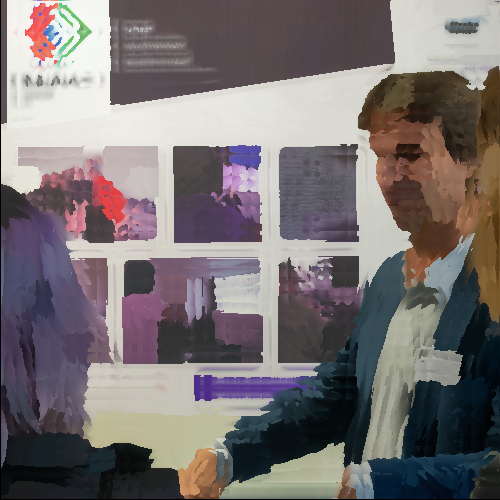
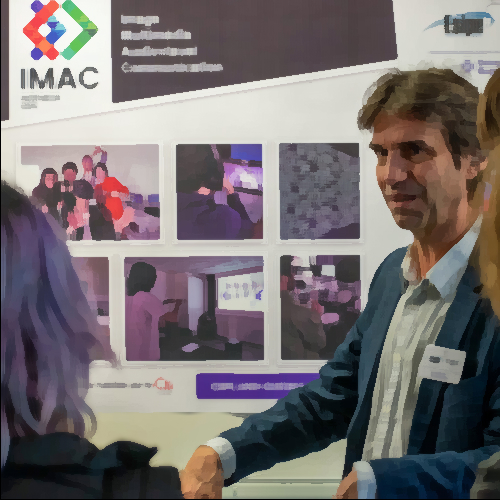
update kuwahara

diff --git a/src/26_kuwahara/main.cpp b/src/26_kuwahara/main.cpp
@@ -8,14 +8,14 @@ glm::vec3 getKuwaharaFilterValue(sil::Image &image, glm::vec2 position, int coef
 
 int main()
 {
-    sil::Image input_image{"images/photo.jpg"};
+    sil::Image input_image{"images/photo_blur.jpg"};
     sil::Image output_image{input_image};
 
     for (size_t x = 0; x < input_image.width(); ++x)
     {
         for (size_t y = 0; y < input_image.height(); ++y)
         {
-            output_image.pixel(x, y) = getKuwaharaFilterValue(input_image, glm::vec2{x, y}, 21);
+            output_image.pixel(x, y) = getKuwaharaFilterValue(input_image, glm::vec2{x, y}, 7);
         }
     }
 
@@ -27,9 +27,9 @@ glm::vec3 getKuwaharaFilterValue(sil::Image &image, glm::vec2 position, int coef
 {
     std::array<glm::vec2, 4> startPoints{
         glm::vec2{-(coeff / 2), -(coeff / 2)} + position,
-        glm::vec2{1, -(coeff / 2)} + position,
-        glm::vec2{1, 1} + position,
-        glm::vec2{-(coeff / 2), 1} + position};
+        glm::vec2{0, -(coeff / 2)} + position,
+        glm::vec2{0, 0} + position,
+        glm::vec2{-(coeff / 2), 0} + position};
 
     std::array<std::vector<glm::vec3>, 4> values_scares{
         std::vector<glm::vec3>{},
@@ -42,9 +42,9 @@ glm::vec3 getKuwaharaFilterValue(sil::Image &image, glm::vec2 position, int coef
 
     for (size_t i = 0; i < 4; ++i)
     {
-        for (size_t x = 0; x < coeff / 2; x++)
+        for (size_t x = 0; x < (coeff / 2) + 1; x++)
         {
-            for (size_t y = 0; y < coeff / 2; y++)
+            for (size_t y = 0; y < (coeff / 2) + 1; y++)
             {
                 if (
                     startPoints[i].x + x < 0 ||
